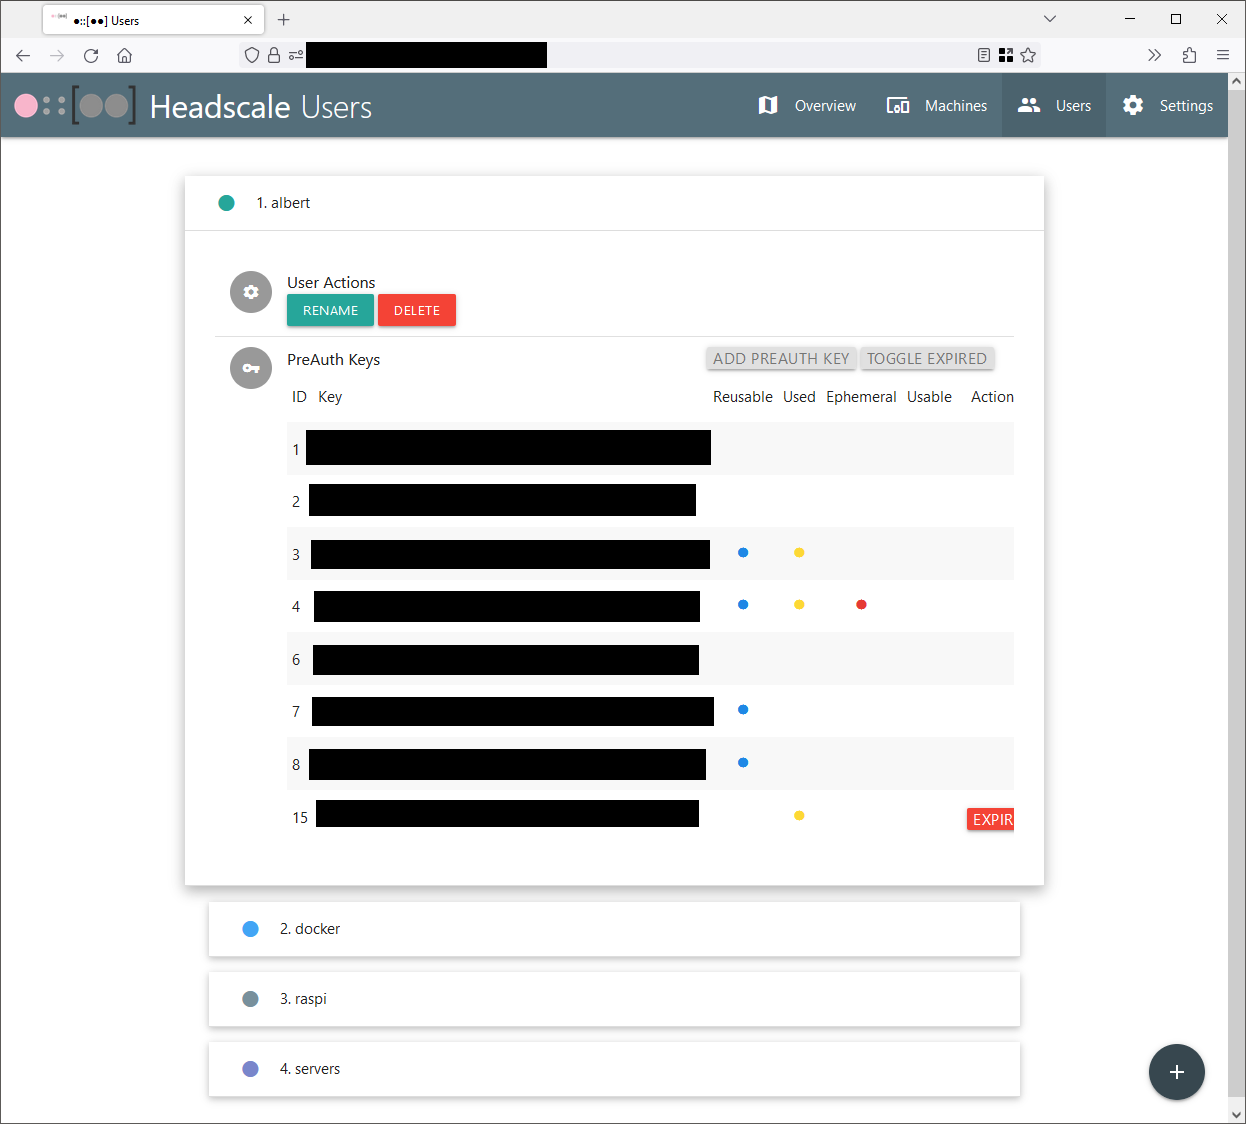
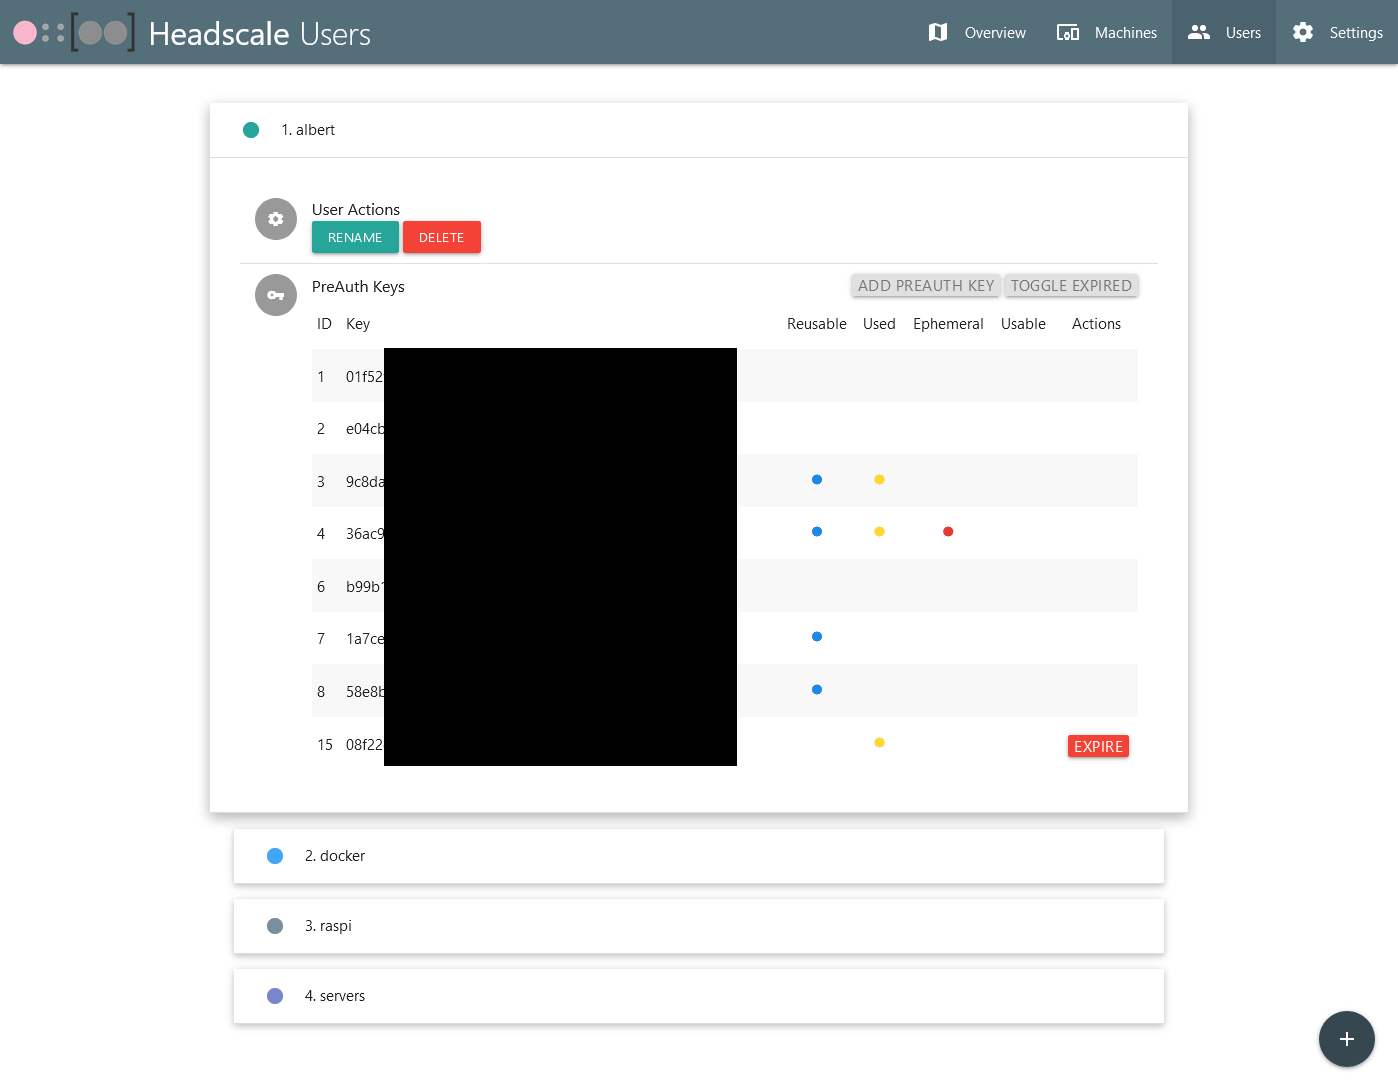
Update screenshots and clean up README

Changed region(s): [[0.0, 0.0, 1.0, 1.0]]

diff --git a/README.md b/README.md
@@ -1,19 +1,29 @@
 # headscale-webui
-* This is just a simple front-end for a Headscale server.  Allows you to do the following:
+This is just a simple front-end for a Headscale server.  
+Allows you to do the following:
 1.  Enable/Disable routes and exit nodes
 2.  Add, move, rename, and remove machines
 3.  Add and remove users/namespaces
 4.  Add and expire PreAuth keys
 5.  Add and remove machine tags
-6.  View machine details (last online, IP addresses, hsotname, PreAuth key in use, enabled/disabled routes, and tags)
+6.  View machine details
+    * Hostname
+    * User associated with the machine
+    * IP addresses in the Tailnet
+    * Last seen by the control server
+    * Last update with the control server
+    * Creation date
+    * PreAuth key associated with the machine
+    * Enable / disable routes and exit nodes
+    * Add and delete machine tags
 
 Screenshots:
 
 ![Machines](screenshots/machines.png)
 ![Users](screenshots/users.png)
-![Add a new machine](screenshots/machine_add.png)
-![Machine Details](screenshots/machines-page.JPG)
-![API Key Test](screenshots/key_test.png)
+![Add a new machine](screenshots/add-machine.png)
+![Machine Details](screenshots/machines.png)
+![API Key Test](screenshots/settings.png)
 
 
 ## Installation:
@@ -21,14 +31,14 @@ Screenshots:
 2.  Change the following variables in docker-compose.yml:
     1.  TZ - Change to your timezone.  Example: Asia/Tokyo
     2.  HS_SERVER - Change to your headscale's URL
-    3.  BASE_PATH - This will be the path your server is served on.  Because the GUI expects <HS_SERVER/admin>, I usually put this as "/admin"
+    3.  BASE_PATH - This will be the path your server is served on.  Because the Windows Tailscale GUI expects <HS_SERVER/admin>, I usually put this as "/admin"
     4.  KEY - Your encryption key to store your headscale API key on disk.  Generate a new one with "openssl rand -base64 32".  Do not forget the quotations around the key when entering.
 3. You will also need to change the volumes:
     1.  /data - Where your encryption key will reside.  Can be anywhere
     2.  /etc/headscale/ - This is your Headscale configuration file.
 4.  Update the build context location to the directory with the Dockerfile.
     1.  Example:  If Dockerfile is in /home/username/headscale-webui, your context will be:
-        *      `context: /home/username/headscale-webui/`
+        *      context: /home/username/headscale-webui/
 
 ## Traefik
 * This was built assuming the use of the Traefik reverse proxy.
@@ -45,4 +55,4 @@ Screenshots:
       - "traefik.http.middlewares.headscale-webui-stripprefix.stripprefix.forceslash=true"
       - "traefik.http.middlewares.headscale-webui-stripprefix.stripprefix.prefixes=/admin/"
 ```
-* Replace $DOMAIN with your domain.
+* Replace $DOMAIN with your domain and update /admin to your BASE_PATH, if changed.
